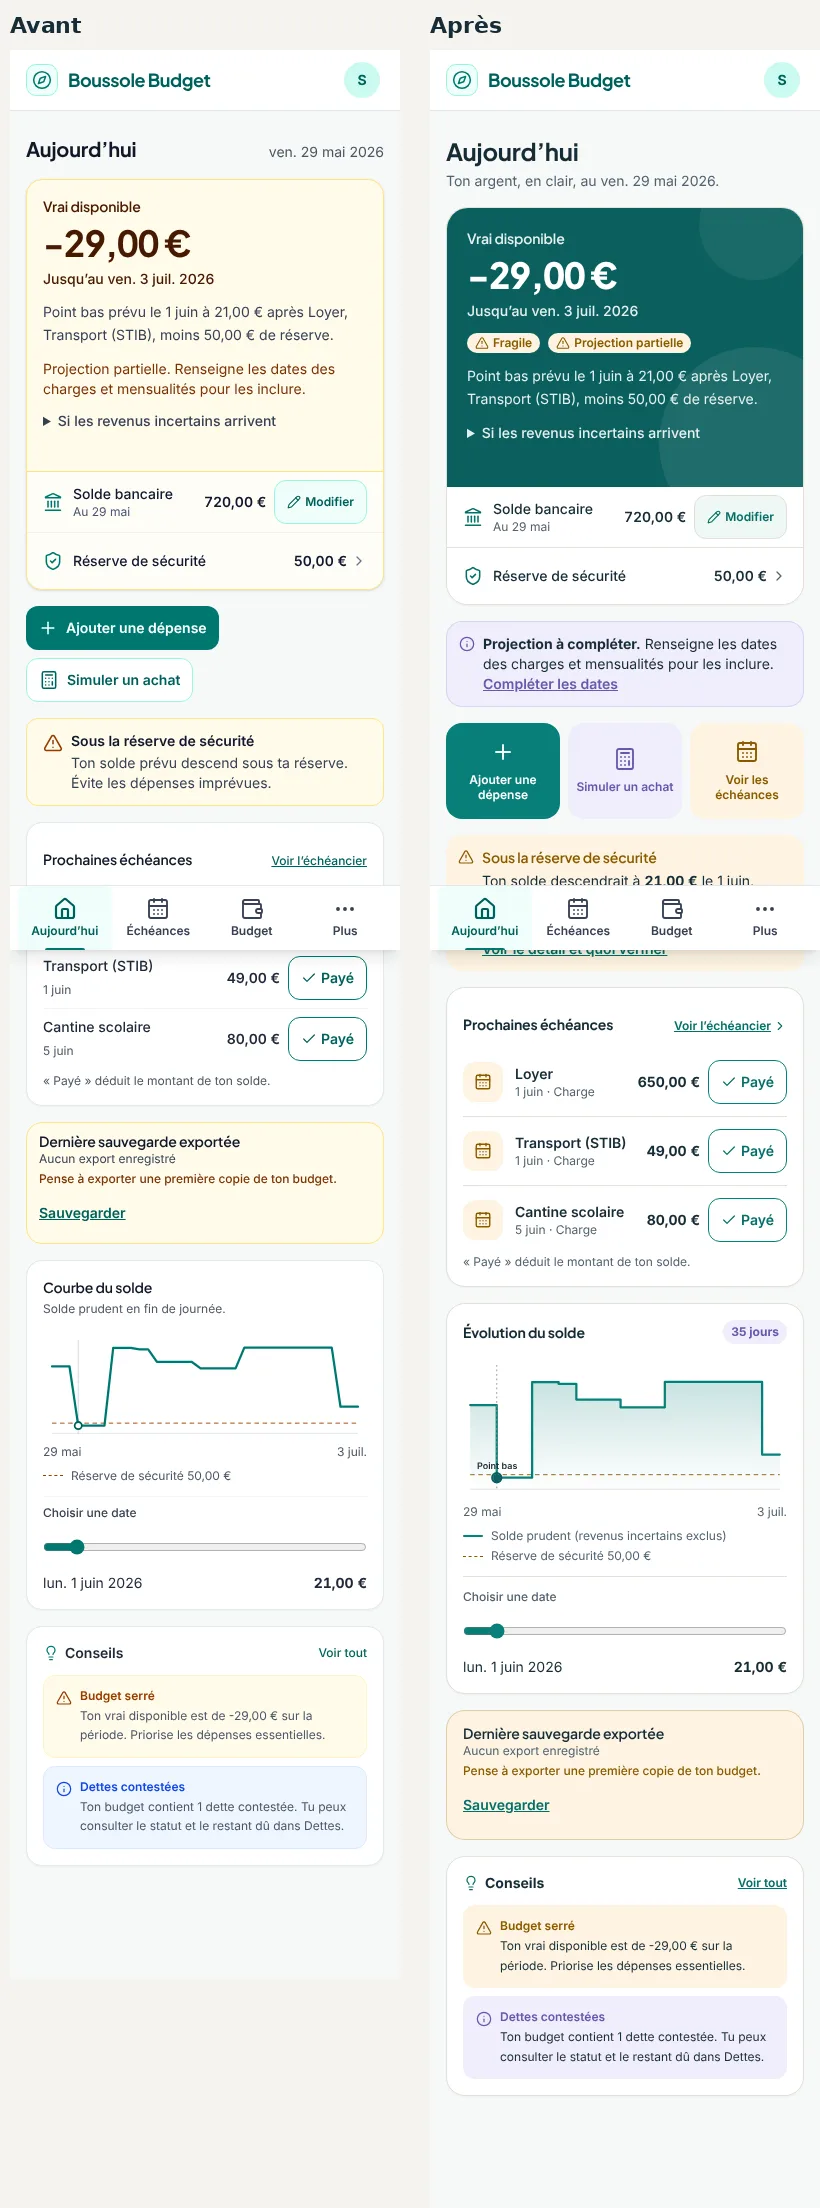
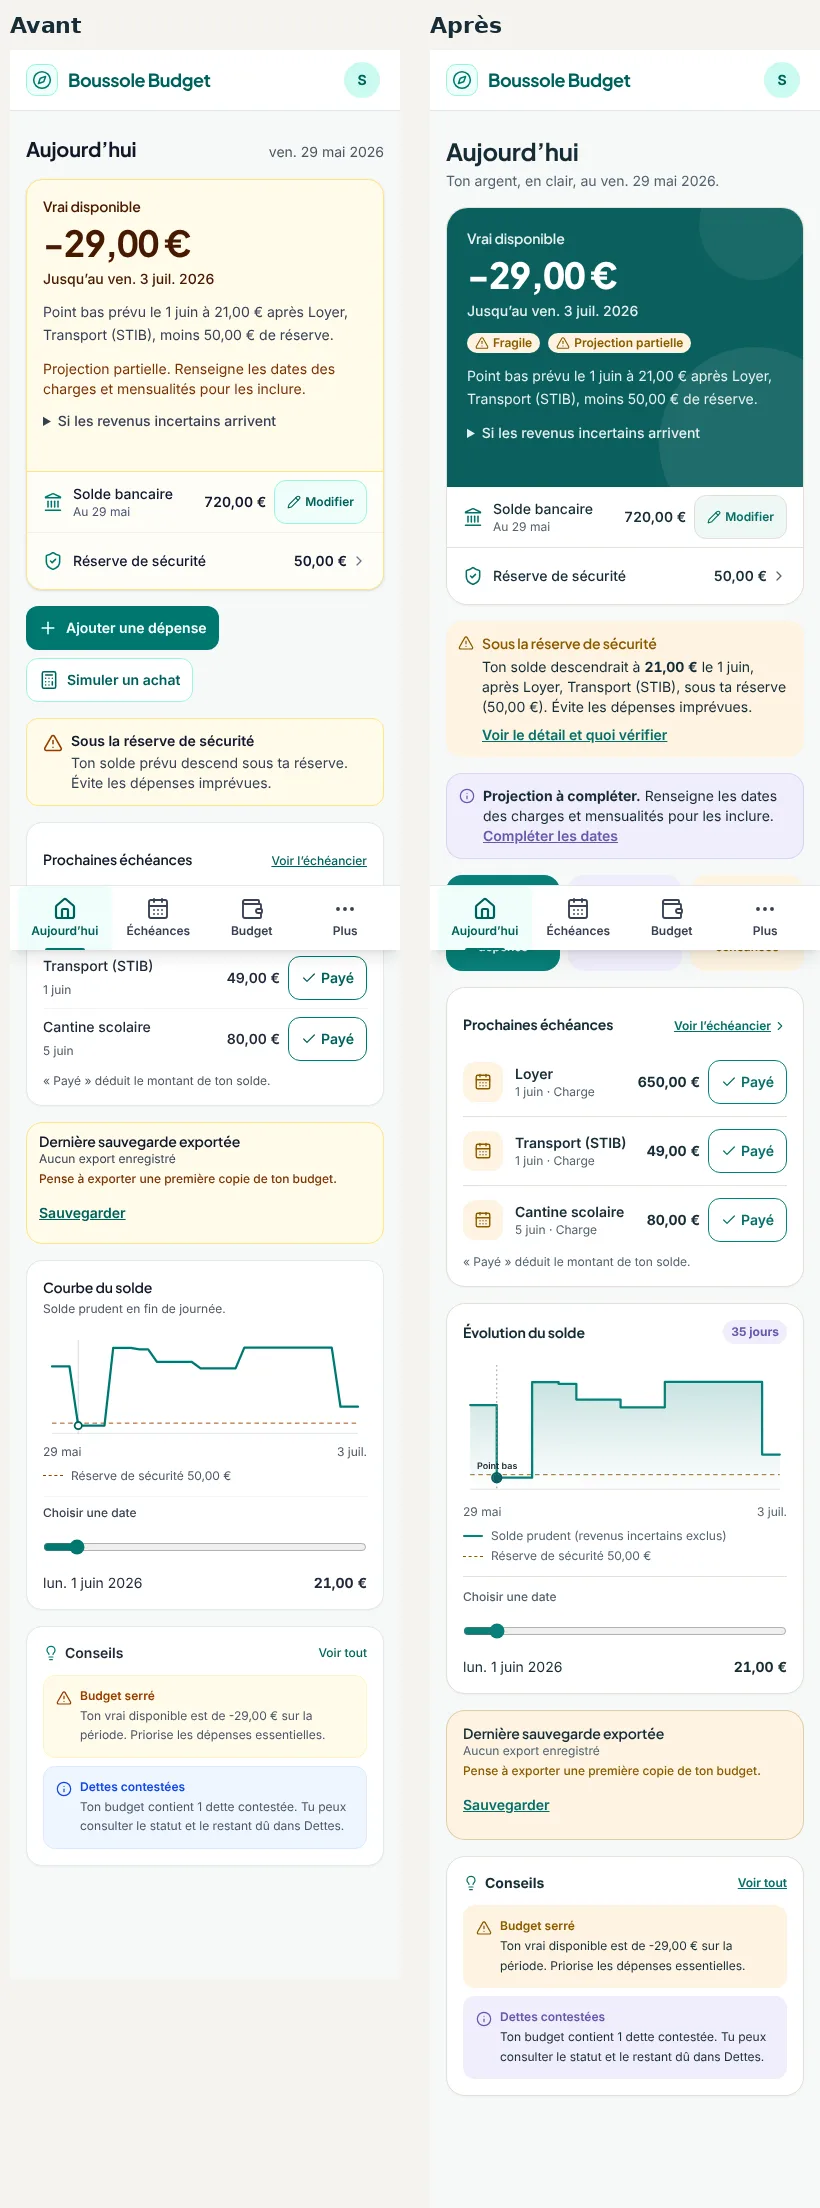
Lot 2 : planches à jour et vérification
Claude-Session: https://claude.ai/code/session_01ESTZ2bvTQLaE1dxyyFyAda

Changed region(s): [[0.5183, 0.2812, 1.0, 0.4375]]

diff --git a/design/capiste-signature-v3/lot2/README.md b/design/capiste-signature-v3/lot2/README.md
@@ -1,0 +1,16 @@
+# Lot 2 — Aujourd’hui (Élan V3)
+
+Captures du 29 mai 2026 (horloge figée), budgets fictifs de `tests/browser/projection-scenarios.mjs`, 390 px. Avant : `main` (`b3684ae`). Après : lot 2.
+
+## Vérification
+
+- `tests/browser/dashboard-v3.mjs` (8 tests) compare l'accueil à `calculateBudgetSummary` et `getUpcomingReminders` sur 7 scénarios. Il vérifie :
+  - le vrai disponible, sa date, le statut écrit et la phrase du point bas ;
+  - « Projection partielle » ;
+  - le solde et la réserve ;
+  - l'alerte de risque (montant, date, causes, lien) ;
+  - chaque échéance (libellé, date, montant, bouton « Payé ») et le lien des retards ;
+  - la courbe.
+
+  Il vérifie aussi que « Payé » puis « Annuler » rétablissent le solde.
+- `outils/captures-accueil.mjs --comparer` : **aucun montant perdu**, signes compris, sur les 8 écrans.
